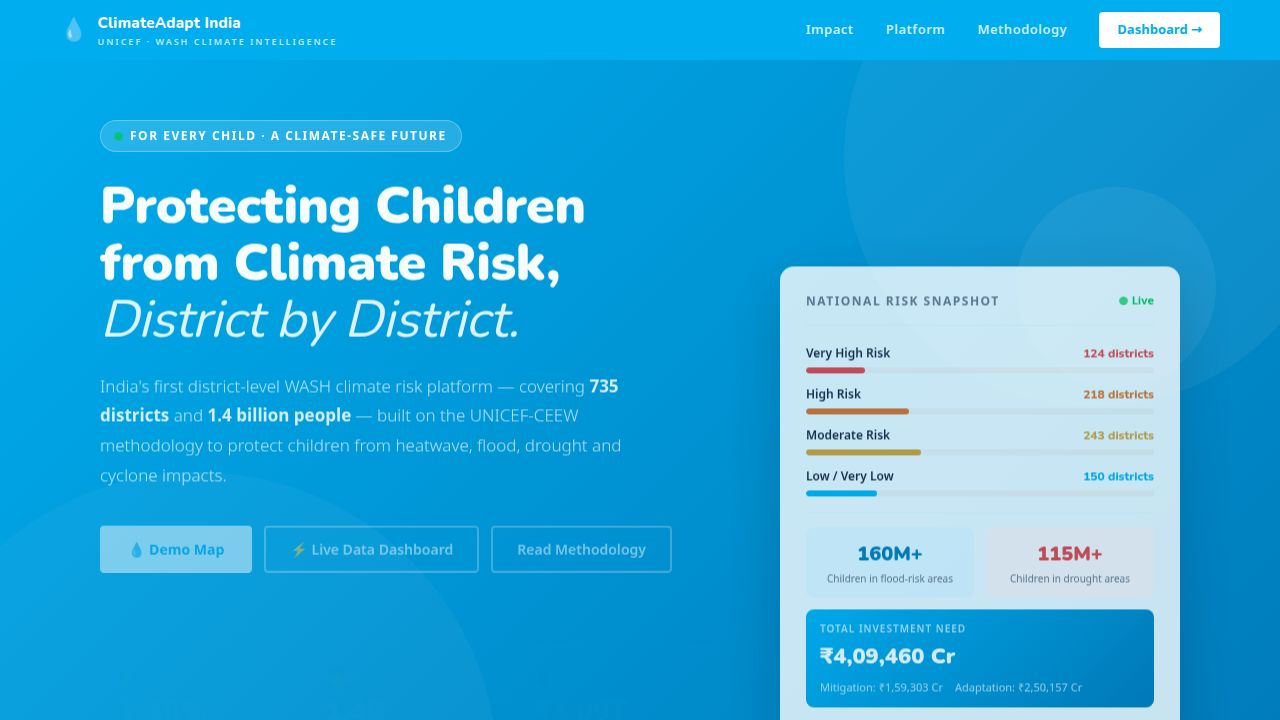
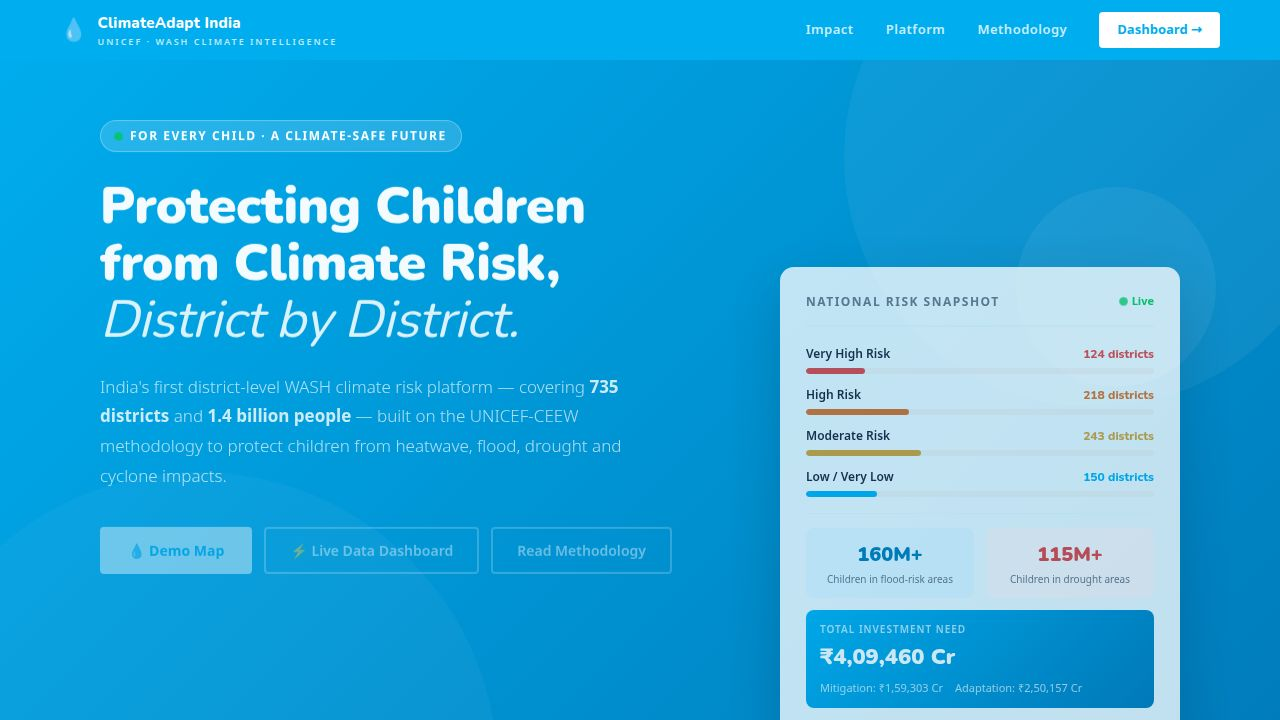
Add machine learning predictions and technology recommendations to the map display
Integrates ML model predictions and tech recommendations into the dashboard UI, including new API endpoints and data types for short-term and long-term forecasting.

Replit-Commit-Author: Agent
Replit-Commit-Session-Id: e491d361-ef4f-4f4d-9b24-52df54c0ab98
Replit-Commit-Checkpoint-Type: full_checkpoint
Replit-Commit-Event-Id: 8b3292a5-80cb-4dd7-9a2f-4def560b75bd
Replit-Commit-Screenshot-Url: https://storage.googleapis.com/screenshot-production-us-central1/06a10cc4-2f05-4598-a0d7-d7cfc416d0d4/e491d361-ef4f-4f4d-9b24-52df54c0ab98/JlQyV1M
Replit-Helium-Checkpoint-Created: true

diff --git a/client/src/components/Sidebar.tsx b/client/src/components/Sidebar.tsx
@@ -1,5 +1,5 @@
 import { useState } from "react";
-import { DistrictData, MapViewMode, Alert, AqiObservation, Intervention, CommunityReport, GeographicLevel, BlockData, WeatherData } from "@/lib/types";
+import { DistrictData, MapViewMode, Alert, AqiObservation, Intervention, CommunityReport, GeographicLevel, BlockData, WeatherData, MlHazardPrediction, MlTechRecommendation } from "@/lib/types";
 import { Card, CardContent, CardHeader, CardTitle, CardDescription } from "@/components/ui/card";
 import { Button } from "@/components/ui/button";
 import { Separator } from "@/components/ui/separator";
@@ -31,6 +31,9 @@ interface SidebarProps {
   allDistricts?: DistrictData[];
   allAlerts?: Alert[];
   districtWeather?: WeatherData | null;
+  mlPrediction?: MlHazardPrediction | null;
+  mlTechRec?: MlTechRecommendation | null;
+  mlLoading?: boolean;
 }
 
 const severityConfig = {
@@ -106,7 +109,7 @@ const modeConfig: Record<MapViewMode, { label: string; color: string; bgColor: s
   }
 };
 
-export function Sidebar({ mode, setMode, selectedDistrict, selectedBlock, blocks = [], onBlockSelect, onDistrictSelect, districtAlerts = [], districtAqi, districtInterventions = [], districtCommunityReports = [], currentLevel = 'state', countryData, stateData, allDistricts = [], allAlerts = [], districtWeather }: SidebarProps) {
+export function Sidebar({ mode, setMode, selectedDistrict, selectedBlock, blocks = [], onBlockSelect, onDistrictSelect, districtAlerts = [], districtAqi, districtInterventions = [], districtCommunityReports = [], currentLevel = 'state', countryData, stateData, allDistricts = [], allAlerts = [], districtWeather, mlPrediction, mlTechRec, mlLoading }: SidebarProps) {
   const [isPanelOpen, setIsPanelOpen] = useState(true);
   const activeAlerts = districtAlerts.filter(a => a.isActive === 1);
   const pendingInterventions = districtInterventions.filter(i => i.status !== 'completed');
@@ -366,7 +369,105 @@ export function Sidebar({ mode, setMode, selectedDistrict, selectedBlock, blocks
                     </div>
                   )}
 
-                  <Accordion type="multiple" defaultValue={["overview"]} className="w-full">
+                  <Accordion type="multiple" defaultValue={["overview", "ml-prediction"]} className="w-full">
+
+                    {/* ML Hazard Prediction */}
+                    <AccordionItem value="ml-prediction" className="border-b border-border/50">
+                      <AccordionTrigger className="py-3 text-sm font-semibold hover:no-underline">
+                        <div className="flex items-center gap-2">
+                          <span className="text-base">🧠</span>
+                          <span>Hazard Prediction</span>
+                          {mlLoading && <span className="ml-1 h-3 w-3 rounded-full border-2 border-primary border-t-transparent animate-spin inline-block" />}
+                        </div>
+                      </AccordionTrigger>
+                      <AccordionContent>
+                        {mlLoading && !mlPrediction && (
+                          <div className="text-xs text-muted-foreground py-3 text-center">Fetching predictions…</div>
+                        )}
+                        {!mlLoading && !mlPrediction && (
+                          <div className="text-xs text-muted-foreground py-3 text-center">ML service unavailable</div>
+                        )}
+                        {mlPrediction && (
+                          <div className="space-y-3 pb-2">
+                            <div className="text-[10px] text-muted-foreground uppercase tracking-wide">
+                              Source: {mlPrediction.source} · Short-term (1-7 days)
+                            </div>
+
+                            {/* Risk bars */}
+                            {(['flood', 'heatwave', 'drought'] as const).map(hazard => {
+                              const pct = Math.round((mlPrediction.prediction[hazard] ?? 0) * 100);
+                              const triggered = mlPrediction.triggered_measures?.[hazard];
+                              const level = triggered?.risk_level?.level ?? 'LOW';
+                              const color = hazard === 'flood' ? 'bg-blue-500' : hazard === 'heatwave' ? 'bg-orange-500' : 'bg-yellow-600';
+                              const labelColor = level === 'CRITICAL' ? 'bg-red-500 text-white' : level === 'HIGH' ? 'bg-orange-500 text-white' : level === 'MODERATE' ? 'bg-yellow-500 text-black' : 'bg-green-600 text-white';
+                              return (
+                                <div key={hazard} className="space-y-1">
+                                  <div className="flex items-center justify-between text-xs">
+                                    <span className="font-medium capitalize">{hazard === 'heatwave' ? '🌡 Heatwave' : hazard === 'flood' ? '🌊 Flood' : '🏜 Drought'}</span>
+                                    <div className="flex items-center gap-1.5">
+                                      <span className="text-muted-foreground">{pct}%</span>
+                                      <Badge className={`text-[9px] px-1 py-0 font-bold ${labelColor}`}>{level}</Badge>
+                                    </div>
+                                  </div>
+                                  <div className="h-2 w-full bg-muted rounded-full overflow-hidden">
+                                    <div className={`h-full ${color} transition-all rounded-full`} style={{ width: `${pct}%` }} />
+                                  </div>
+                                </div>
+                              );
+                            })}
+
+                            {/* Triggered measures */}
+                            {Object.keys(mlPrediction.triggered_measures ?? {}).length > 0 && (
+                              <div className="mt-3 space-y-2">
+                                <div className="text-[10px] font-semibold uppercase tracking-wide text-muted-foreground">Protective Measures Triggered</div>
+                                {Object.entries(mlPrediction.triggered_measures).map(([hazard, data]) =>
+                                  data.measures.slice(0, 3).map((m, i) => (
+                                    <div key={`${hazard}-${i}`} className="flex gap-2 text-xs p-2 rounded bg-muted/40">
+                                      <span className={`mt-0.5 flex-shrink-0 font-bold text-[9px] px-1 rounded ${m.priority === 'CRITICAL' ? 'bg-red-500 text-white' : m.priority === 'HIGH' ? 'bg-orange-500 text-white' : 'bg-yellow-500 text-black'}`}>{m.priority}</span>
+                                      <div>
+                                        <div className="font-medium leading-tight">{m.action}</div>
+                                        <div className="text-muted-foreground text-[10px] mt-0.5">{m.who} · {m.timeframe}</div>
+                                      </div>
+                                    </div>
+                                  ))
+                                )}
+                              </div>
+                            )}
+
+                            {/* WASH tech recommendations from long-term model */}
+                            {mlTechRec && (
+                              <div className="mt-3 pt-3 border-t border-border/40 space-y-2">
+                                <div className="text-[10px] font-semibold uppercase tracking-wide text-muted-foreground flex items-center justify-between">
+                                  <span>Recommended WASH Technology</span>
+                                  <span className="normal-case font-normal">Long-term proneness</span>
+                                </div>
+                                <div className="grid grid-cols-3 gap-1 text-center text-[10px]">
+                                  {(['flood_proneness', 'heatwave_proneness', 'drought_proneness'] as const).map(k => (
+                                    <div key={k} className="bg-muted/40 rounded p-1">
+                                      <div className="font-bold text-xs">{Math.round((mlTechRec.proneness_scores[k] ?? 0) * 100)}%</div>
+                                      <div className="text-muted-foreground capitalize">{k.replace('_proneness', '')}</div>
+                                    </div>
+                                  ))}
+                                </div>
+                                {mlTechRec.recommendations.toilet_recommendations.filter(r => r.priority === 'PRIMARY').slice(0, 1).map((rec, i) => (
+                                  <div key={i} className="p-2 rounded bg-sky-500/10 border border-sky-500/20 text-xs">
+                                    <div className="font-semibold text-sky-400 text-[11px]">🚽 {rec.technology.name}</div>
+                                    <div className="text-muted-foreground mt-0.5 text-[10px]">{rec.reason}</div>
+                                    {rec.technology.cost_range && <div className="text-[10px] mt-1 font-medium">{rec.technology.cost_range}</div>}
+                                  </div>
+                                ))}
+                                {mlTechRec.recommendations.liquid_waste_recommendations.filter(r => r.priority === 'PRIMARY').slice(0, 1).map((rec, i) => (
+                                  <div key={i} className="p-2 rounded bg-teal-500/10 border border-teal-500/20 text-xs">
+                                    <div className="font-semibold text-teal-400 text-[11px]">💧 {rec.technology.name}</div>
+                                    <div className="text-muted-foreground mt-0.5 text-[10px]">{rec.reason}</div>
+                                  </div>
+                                ))}
+                              </div>
+                            )}
+                          </div>
+                        )}
+                      </AccordionContent>
+                    </AccordionItem>
 
                     <AccordionItem value="overview" className="border-b border-border/50">
                       <AccordionTrigger className="py-3 text-sm font-semibold hover:no-underline">

diff --git a/server/routes.ts b/server/routes.ts
@@ -762,5 +762,86 @@ export async function registerRoutes(
     }
   });
 
+  // ─── ML Service Proxy (Flask on port 8080) ──────────────────────────────────
+  const ML_BASE = process.env.ML_SERVICE_URL || 'http://localhost:8080';
+  const mlCache = new Map<string, { data: any; ts: number }>();
+  const ML_TTL = 30 * 60 * 1000; // 30 minutes
+
+  app.get('/api/ml/short-term/:districtId', async (req, res) => {
+    try {
+      const { districtId } = req.params;
+      const cacheKey = `short-${districtId}`;
+      const cached = mlCache.get(cacheKey);
+      if (cached && Date.now() - cached.ts < ML_TTL) {
+        return res.json(cached.data);
+      }
+
+      const { db } = await import("./db");
+      const { districts } = await import("@shared/schema");
+      const { eq } = await import("drizzle-orm");
+
+      // Look up geometry to compute centroid
+      const rows = await db.select({ geometry: districts.geometry })
+        .from(districts)
+        .where(eq(districts.id, districtId))
+        .limit(1);
+
+      const centroid = rows[0]?.geometry ? computeCentroid(rows[0].geometry as any) : null;
+      let url = `${ML_BASE}/api/short-term/${districtId}`;
+      if (centroid) url += `?lat=${centroid.lat.toFixed(4)}&lon=${centroid.lng.toFixed(4)}`;
+
+      const ctrl = new AbortController();
+      const timeout = setTimeout(() => ctrl.abort(), 8000);
+      const resp = await fetch(url, { signal: ctrl.signal });
+      clearTimeout(timeout);
+
+      if (!resp.ok) {
+        return res.status(resp.status).json({ error: 'ML service error' });
+      }
+      const data = await resp.json();
+      mlCache.set(cacheKey, { data, ts: Date.now() });
+      res.json(data);
+    } catch (error: any) {
+      if (error.name === 'AbortError') return res.status(504).json({ error: 'ML service timeout' });
+      res.status(500).json({ error: error.message });
+    }
+  });
+
+  app.get('/api/ml/long-term/:districtId', async (req, res) => {
+    try {
+      const { districtId } = req.params;
+      const cacheKey = `long-${districtId}`;
+      const cached = mlCache.get(cacheKey);
+      if (cached && Date.now() - cached.ts < ML_TTL) {
+        return res.json(cached.data);
+      }
+
+      const { db } = await import("./db");
+      const { districts } = await import("@shared/schema");
+      const { eq } = await import("drizzle-orm");
+
+      const rows = await db.select({ name: districts.name })
+        .from(districts)
+        .where(eq(districts.id, districtId))
+        .limit(1);
+
+      const districtName = rows[0]?.name || districtId;
+      const url = `${ML_BASE}/api/long-term/${encodeURIComponent(districtName)}`;
+
+      const ctrl = new AbortController();
+      const timeout = setTimeout(() => ctrl.abort(), 8000);
+      const resp = await fetch(url, { signal: ctrl.signal });
+      clearTimeout(timeout);
+
+      if (!resp.ok) return res.status(resp.status).json({ error: 'ML service error' });
+      const data = await resp.json();
+      mlCache.set(cacheKey, { data, ts: Date.now() });
+      res.json(data);
+    } catch (error: any) {
+      if (error.name === 'AbortError') return res.status(504).json({ error: 'ML service timeout' });
+      res.status(500).json({ error: error.message });
+    }
+  });
+
   return httpServer;
 }

diff --git a/client/src/pages/Dashboard.tsx b/client/src/pages/Dashboard.tsx
@@ -2,7 +2,7 @@ import { useState, useEffect, useMemo, useCallback } from "react";
 import { MapComponent } from "@/components/MapComponent";
 import { Sidebar } from "@/components/Sidebar";
 import { GeographicNavigation } from "@/components/GeographicNavigation";
-import { DistrictData, MapViewMode, Alert, AqiObservation, Intervention, CommunityReport, GeographicLevel, CountryData, StateData, BlockData, WeatherData } from "@/lib/types";
+import { DistrictData, MapViewMode, Alert, AqiObservation, Intervention, CommunityReport, GeographicLevel, CountryData, StateData, BlockData, WeatherData, MlHazardPrediction, MlTechRecommendation } from "@/lib/types";
 import { fetchDistrict, transformDistrict } from "@/lib/api";
 import { Button } from "@/components/ui/button";
 import { Select, SelectContent, SelectItem, SelectTrigger, SelectValue } from "@/components/ui/select";
@@ -48,6 +48,9 @@ export default function Dashboard() {
   const [weatherLoading, setWeatherLoading] = useState(false);
   const [weatherData, setWeatherData] = useState<Map<string, WeatherData>>(new Map());
   const [prevMode, setPrevMode] = useState<MapViewMode>('vulnerability');
+  const [mlPrediction, setMlPrediction] = useState<MlHazardPrediction | null>(null);
+  const [mlTechRec, setMlTechRec] = useState<MlTechRecommendation | null>(null);
+  const [mlLoading, setMlLoading] = useState(false);
 
   useEffect(() => {
     fetch('/api/countries')
@@ -91,6 +94,21 @@ export default function Dashboard() {
       .then(data => setAlerts(data))
       .catch(err => console.error('Failed to fetch alerts:', err));
   }, []);
+
+  // Fetch ML predictions when a district is selected
+  useEffect(() => {
+    if (!selectedDistrict) { setMlPrediction(null); setMlTechRec(null); return; }
+    setMlLoading(true);
+    const id = selectedDistrict.id;
+    Promise.all([
+      fetch(`/api/ml/short-term/${id}`).then(r => r.ok ? r.json() : null).catch(() => null),
+      fetch(`/api/ml/long-term/${id}`).then(r => r.ok ? r.json() : null).catch(() => null),
+    ]).then(([pred, tech]) => {
+      setMlPrediction(pred);
+      setMlTechRec(tech);
+      setMlLoading(false);
+    });
+  }, [selectedDistrict?.id]);
 
   // Fetch weather layer data when activated or country changes
   useEffect(() => {
@@ -360,6 +378,9 @@ export default function Dashboard() {
                   allDistricts={allDistricts}
                   allAlerts={alerts}
                   districtWeather={selectedDistrict ? weatherData.get(selectedDistrict.id) ?? null : null}
+                  mlPrediction={mlPrediction}
+                  mlTechRec={mlTechRec}
+                  mlLoading={mlLoading}
                 />
               </div>
             </SheetContent>
@@ -460,6 +481,9 @@ export default function Dashboard() {
             allDistricts={allDistricts}
             allAlerts={alerts}
             districtWeather={selectedDistrict ? weatherData.get(selectedDistrict.id) ?? null : null}
+            mlPrediction={mlPrediction}
+            mlTechRec={mlTechRec}
+            mlLoading={mlLoading}
           />
         </div>
         <div className="flex-1 h-full min-h-[300px] sm:min-h-[400px]">

diff --git a/client/src/lib/types.ts b/client/src/lib/types.ts
@@ -128,6 +128,40 @@ export interface DistrictData {
 
 export type MapViewMode = 'vulnerability' | 'adaptation' | 'hazard' | 'exposure' | 'risk' | 'weather';
 
+export interface MlHazardPrediction {
+  district_id: string;
+  source: string;
+  prediction: { flood: number; heatwave: number; drought: number };
+  triggered_measures: Record<string, {
+    probability: number;
+    risk_level: { level: string; color: string };
+    measures: { action: string; who: string; timeframe: string; priority: string }[];
+  }>;
+  message: string;
+}
+
+export interface MlTechRecommendation {
+  district: string;
+  proneness_scores: {
+    flood_proneness: number;
+    heatwave_proneness: number;
+    drought_proneness: number;
+    dominant_hazard: string;
+  };
+  recommendations: {
+    toilet_recommendations: Array<{
+      technology: { name: string; description: string; cost_range: string };
+      reason: string;
+      priority: string;
+    }>;
+    liquid_waste_recommendations: Array<{
+      technology: { name: string; description: string };
+      reason: string;
+      priority: string;
+    }>;
+  };
+}
+
 export interface WeatherData {
   id: string;
   name: string;
